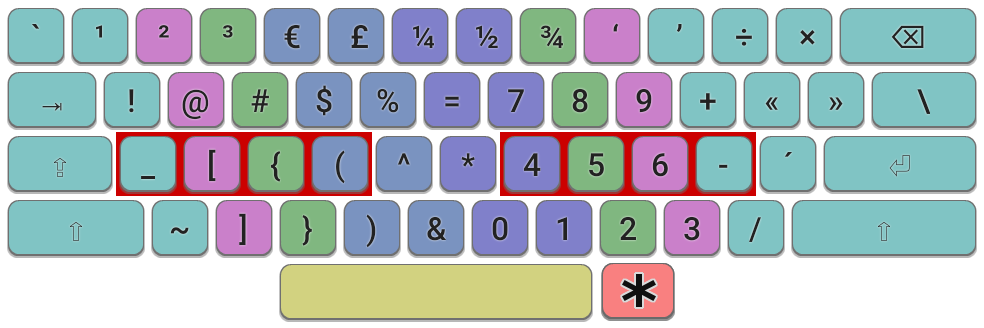
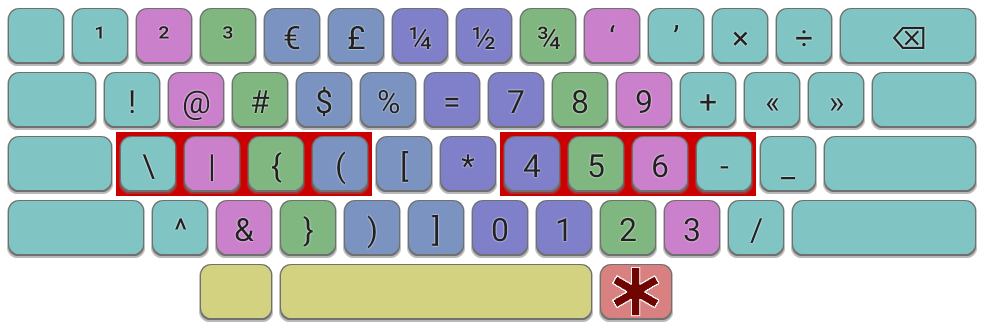
Update symbols layers

diff --git a/symbols.html b/symbols.html
@@ -48,7 +48,7 @@
 
 <p>A Symbols Layer provides a set of improved mappings for commonly typed non-alphabetic characters. A common use case is for software developers, whose programming languages often require the use of characters such as brackets, underscores and mathematical symbols. However, as such a layer is customizable, it may feature digits, accented characters, or other specialist symbols according to the user's requirements.</p>
 
-<p class="caption"><code style="background:#20202020">&nbsp;&nbsp; ( ) { } [ ] _ &amp; | = * + - &nbsp;&nbsp;</code><br/>
+<p class="caption"><code style="background:#20202020">&nbsp;&nbsp; ( ) { } [ ] _ &amp; \ | = * + - &nbsp;&nbsp;</code><br/>
 On a standard keyboard, many symbols are difficult to type efficiently, especially those located on keys in the top-right corner.</p>
 
 <p>The Symbols Layer is activated by holding down a modifier key, typically AltGr (Right Alt). The characters can then by typed using much easier to reach keys, such as home-row or other easy-access keys. Although this means two keys are required, the use of the right thumb for AltGr means such symbols can be typed faster and more comfortably than reaching for a single key in the corners of the keyboard.</p>
@@ -57,7 +57,7 @@ On a standard keyboard, many symbols are difficult to type efficiently, especial
 
 <p>The concept is similar to the <a href="extend.html">Extend Layer</a> but here we are concerned with typing printable symbols, rather than the Extend Layer's focus on navigation and editing functions. A Symbols layer is complementary to Extend and the layers can work well together. For suggestions on how to set up modifier keys to support them, see the <a href="modifiers.html">Modifiers</a> page.</p>
 
-<p>The use of layers in this way makes it possible to implement the <i>‘1u principle’</i> : that any commonly typed key should be accessible at no more than 1 key-unit distance from the home position. This is necessary for smaller (40%) boards, but can be a worthwhile objective on any keyboard.</p>
+<p>The use of layers in this way makes it possible to implement the <i>‘1u principle’</i> : that any commonly typed key should be accessible at no more than 1 key-unit distance from the home position. This is necessary for smaller (40%) boards, but can be a worthwhile objective on any keyboard. For an example implementation of this, see the <a href="https://stevep99.github.io/seniply/">Seniply</a> six-layer keyboard layout.</p>
 
 <h3><a name="resources" class="anchor" href="#resources"></a>Other Examples</h3>
 
@@ -66,7 +66,8 @@ On a standard keyboard, many symbols are difficult to type efficiently, especial
 <h3><a name="resources" class="anchor" href="#resources"></a>Resources</h3>
 
 <ul>
-<li><a href="https://github.com/stevep99/keyboard-tweaks/tree/master/AltGr">SteveP's AltGr Programmer Layer</a></li>
+<li><a href="https://stevep99.github.io/seniply/">Seniply six-layer layout</a></li>
+<li><a href="https://github.com/manna-harbour/miryoku">Miryoku layout</a></li>
 <li><a href="https://github.com/jackrosenthal/threelayout">Three Layout</a></li>
 <li><a href="https://medium.com/@jack_21924/crackle-keyboard-layout-for-special-characters-e4dd04838231">Crackle Layout</a></li>
 

diff --git a/wide.html b/wide.html
@@ -59,7 +59,7 @@ The Wide Mod on an Colemak ANSI keyboard. See further <a href="#examples">exampl
 
 <p>The Wide Mod introduces a modest improvement to ergonomics for a low learning cost. It can also be very effectively combined with the <a href="angle.html">Angle Mod</a>, see below for examples.</p>
  
-<p>It's worth mentioning many of the benefits of the Wide Mod can be achieved by instead using a split keyboard.</p>
+<p>It's worth noting that many of the benefits of the Wide Mod can be achieved by instead using a split keyboard.</p>
 
 <h3><a name="resources" class="anchor" href="#resources"></a>Resources</h3>
 
